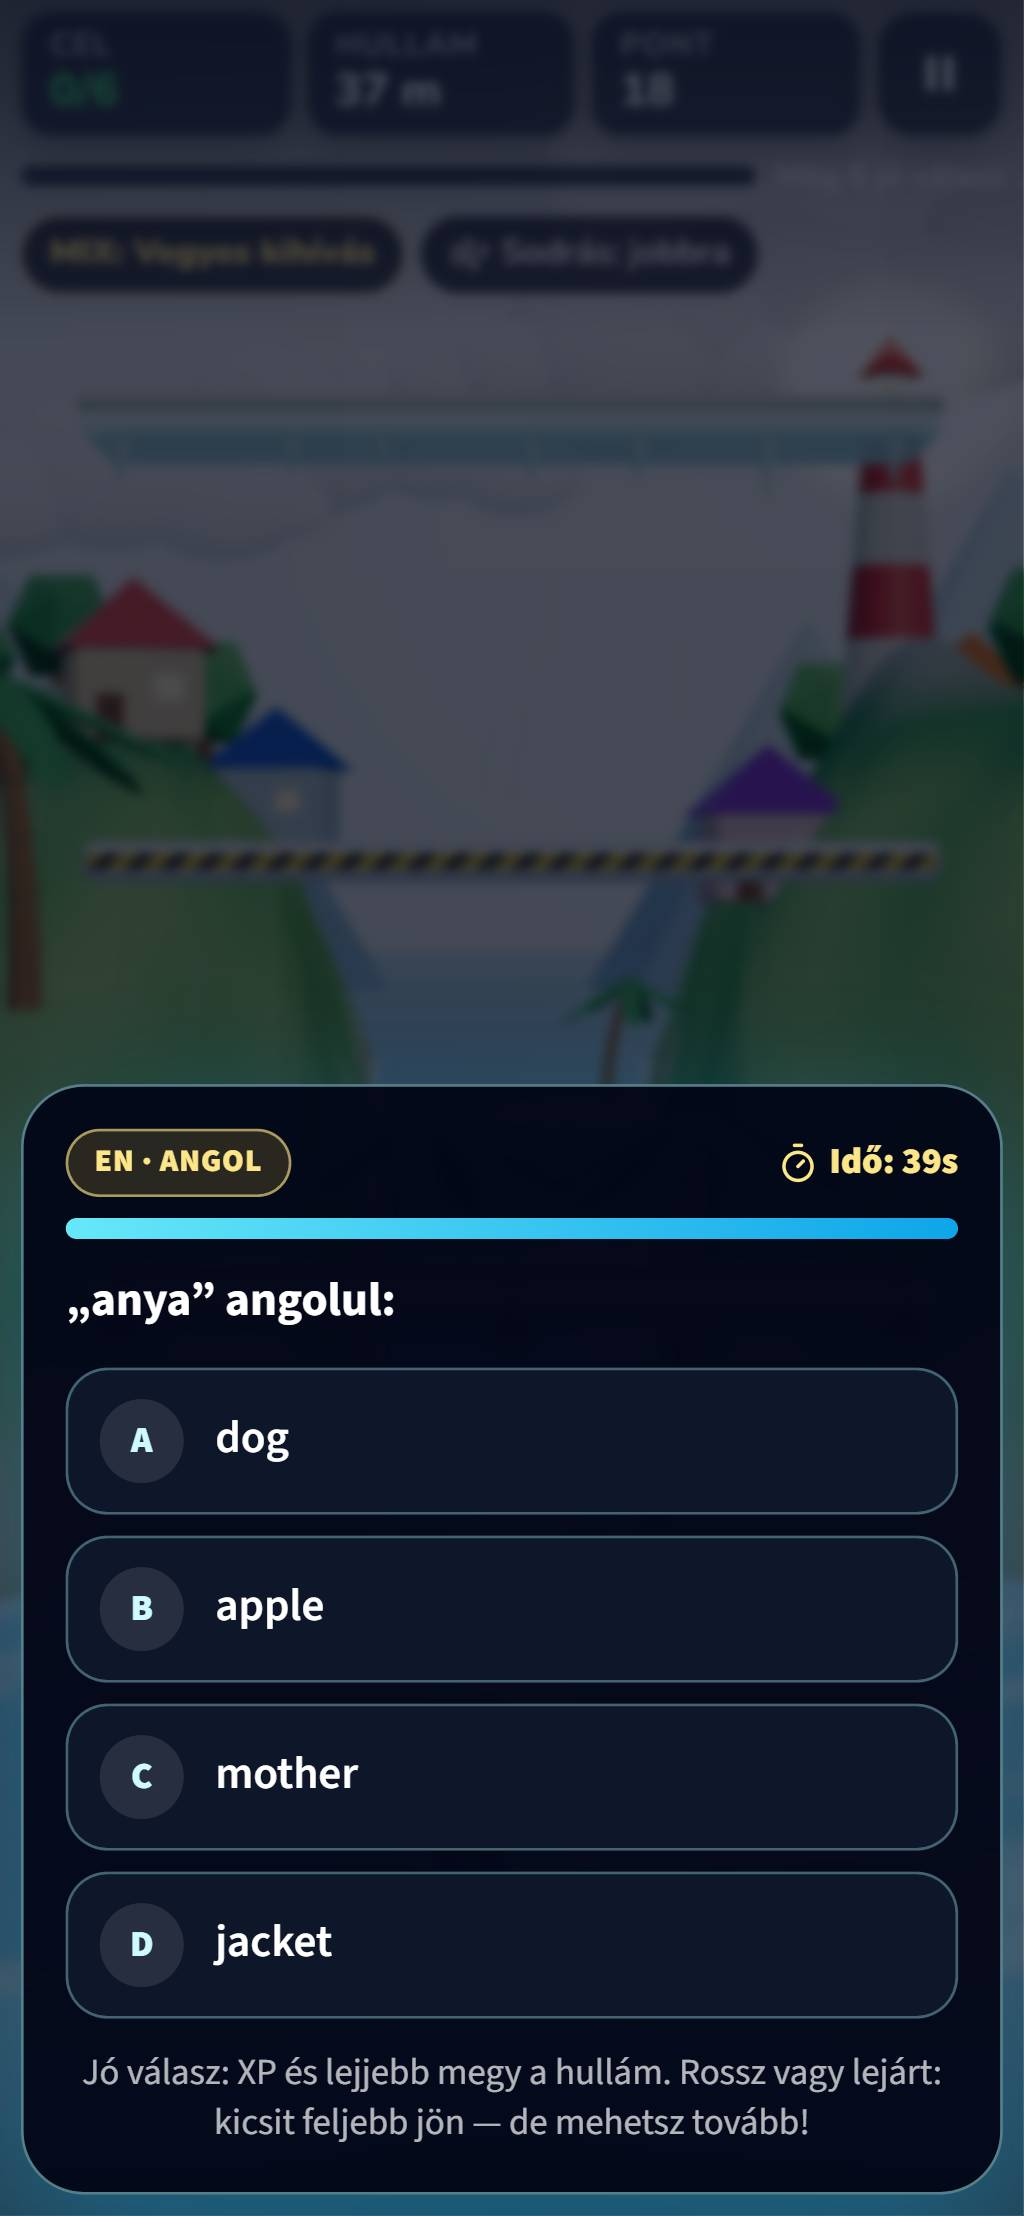
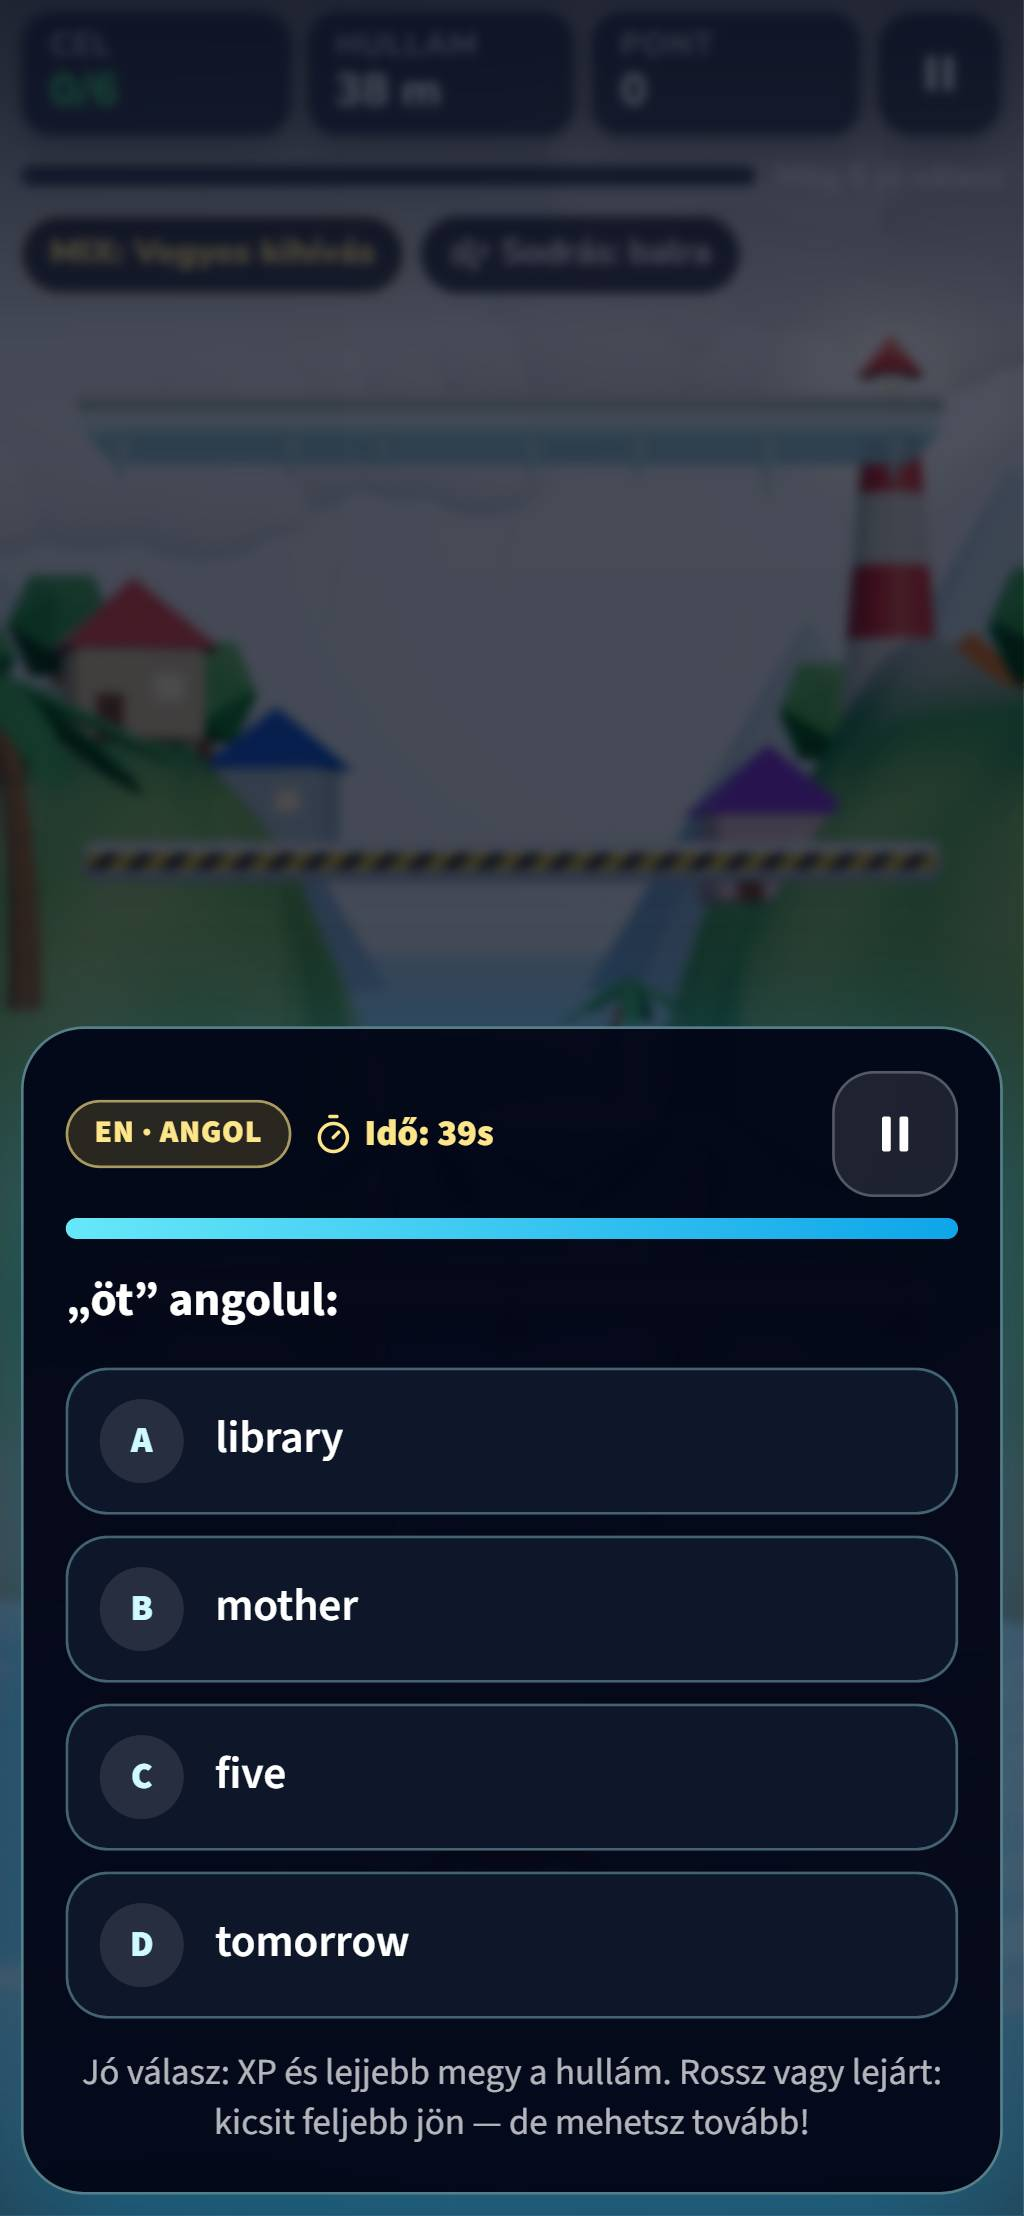
fix(jatekok): S9 – review #426: szünet a kvízrétegen, elavult fázisváltás ellen futás-azonosító
- A kvízréteg fejlécében 48 px-es szünetgomb (a teljes képernyős réteg eltakarta a HUD-ét); a kvíz
  automatikus fókusza az első válaszgombra kerül.
- A helyes válasz utáni késleltetett folytatás a continueTimerRef-ben; a startGame és az exitToMenu
  törli, és új futás-azonosítóra lép; a callback csak a saját futásában és kvíz-fázisban hat.
- Szinkron fázis- és szünettükör (goPhase / goPaused): egy már ütemezett, elavult képkocka a győzelem
  után nem nyithat kvízt (mérve a mobil-mérésben: „Cél 8/6” mellett kvíz nyílt az eredmény helyett).
- Forrásőr-tesztek a mintákra; frissített kvíz-képernyőképek a szünetgombbal.

diff --git a/source/client/src/pages/TsunamiEscapeEnglish.tsx b/source/client/src/pages/TsunamiEscapeEnglish.tsx
@@ -29,7 +29,7 @@ import { useCouponSession } from "@/game-engine/useCouponSession";
 import { maybeClaimCouponBonus } from "@/game-engine/claimCouponBonus";
 import { CouponHud, CouponExpiredOverlay } from "@/game-engine/CouponHud";
 import { correctDataAttrs, installGameTestApi } from "@/game-engine/game-test-hooks";
-import { ArrowLeft, Check, Flame, Shield, Timer, Waves, Wind, X } from "lucide-react";
+import { ArrowLeft, Check, Flame, Pause, Shield, Timer, Waves, Wind, X } from "lucide-react";
 import VirtualJoystick from "@/game-engine/VirtualJoystick";
 import HoldButton from "@/game-engine/HoldButton";
 import { joystickToDirections } from "@/game-engine/joystick";
@@ -611,6 +611,16 @@ export default function TsunamiEscapeEnglish() {
   }, []);
   const [subject, setSubject] = useState<TsunamiSubject>("mixed");
   const [phase, setPhase] = useState<Phase>("menu");
+  /**
+   * S9 / review #426: a fázis és a szünet SZINKRON tükre. A már ütemezett animációs képkocka és a késleltetett
+   * folytatás a régi zárlattal futhat le a következő renderelés előtt (mérve: a győzelem után egy elavult képkocka
+   * még kvízt nyitott); ezek a refet olvassák, ezért elavult hívás nem válthat fázist.
+   */
+  const phaseNowRef = useRef<Phase>("menu");
+  const goPhase = useCallback((p: Phase) => {
+    phaseNowRef.current = p;
+    setPhase(p);
+  }, []);
 
   /**
    * LS-3b: the play-time coupon earned in a lesson, if there is one.
@@ -648,6 +658,13 @@ export default function TsunamiEscapeEnglish() {
   const domScene = scene3d === false;
   /** S9 / terv 4.5: szünet (kézi vagy automatikus, ha a lap háttérbe kerül). */
   const [paused, setPaused] = useState(false);
+  const pausedNowRef = useRef(false);
+  const goPaused = useCallback((p: boolean) => {
+    pausedNowRef.current = p;
+    setPaused(p);
+  }, []);
+  /** Futás-azonosító: minden indítás / kilépés növeli — a késleltetett hívás csak a saját futásában hat. */
+  const runIdRef = useRef(0);
   /** Érintővezérlés csak érintős eszközön (S9 / terv 4.6/1, M5). */
   const touch = useTouchCapable();
   const haptics = useHaptics();
@@ -661,6 +678,9 @@ export default function TsunamiEscapeEnglish() {
   const [answerFx, setAnswerFx] = useState<{ index: number; ok: boolean } | null>(null);
   /** A futás összes megválaszolt kérdése (jó + rossz + lejárt) — az eredményképernyő arányához. */
   const answeredCountRef = useRef(0);
+  /** A helyes válasz utáni késleltetett folytatás időzítője (kilépéskor / újrakezdéskor törlendő). */
+  const continueTimerRef = useRef(0);
+  useEffect(() => () => clearTimeout(continueTimerRef.current), []);
   /** G-1: magyarázó kártya rossz válaszra. */
   const [explainCard, setExplainCard] = useState<FeedbackCard | null>(null);
 
@@ -881,6 +901,9 @@ export default function TsunamiEscapeEnglish() {
   }, []);
 
   const startGame = useCallback(() => {
+    clearTimeout(continueTimerRef.current);
+    continueTimerRef.current = 0;
+    runIdRef.current += 1;
     runLevelRef.current = levels.level;
     levelClearedRef.current = false;
     adaptiveRef.current.reset(userGrade ?? 4, runLevelRef.current);
@@ -910,7 +933,7 @@ export default function TsunamiEscapeEnglish() {
     answeredCountRef.current = 0;
     runSeenRef.current = [];
     gradeSeenRef.current = createGradeQuizSeen();
-    setPaused(false);
+    goPaused(false);
     setAnswerFx(null);
     setExplainCard(null);
     setBestResult(null);
@@ -923,7 +946,7 @@ export default function TsunamiEscapeEnglish() {
     stormTimerRef.current = 0;
     lastRef.current = null;
     setQuiz(null);
-    setPhase("play");
+    goPhase("play");
   }, [difficulty, subject, userGrade, levels.level]);
 
   /** S9 / terv 4.5: szünet — a játékciklus és a kvízóra áll, a vezérlés elenged. */
@@ -933,21 +956,24 @@ export default function TsunamiEscapeEnglish() {
     keysRef.current.right = false;
     keysRef.current.sprint = false;
     setJoyReset((n) => n + 1);
-    setPaused(true);
+    goPaused(true);
   }, [phase]);
 
   const resumeGame = useCallback(() => {
     lastRef.current = null;
-    setPaused(false);
+    goPaused(false);
   }, []);
 
   const exitToMenu = useCallback(() => {
-    setPaused(false);
+    clearTimeout(continueTimerRef.current);
+    continueTimerRef.current = 0;
+    runIdRef.current += 1;
+    goPaused(false);
     setQuiz(null);
     setExplainCard(null);
     setAnswerFx(null);
     answerLockedRef.current = false;
-    setPhase("menu");
+    goPhase("menu");
   }, []);
 
   useEffect(() => {
@@ -974,11 +1000,11 @@ export default function TsunamiEscapeEnglish() {
           const secs = tsunamiQuizSeconds(runDifficultyRef.current, adaptiveRef.current.band);
           setQuizTimeLeft(secs);
           setQuizTimeTotal(secs);
-          setPhase("quiz");
+          goPhase("quiz");
           return;
         }
         if (patch.phase === "won" || patch.phase === "over" || patch.phase === "menu" || patch.phase === "play") {
-          setPhase(patch.phase);
+          goPhase(patch.phase);
         }
       },
     });
@@ -1006,7 +1032,7 @@ export default function TsunamiEscapeEnglish() {
   }, [phase, startGame]);
 
   const endGame = useCallback(() => {
-    setPhase("over");
+    goPhase("over");
     cancelAnimationFrame(rafRef.current);
     lastRef.current = null;
   }, []);
@@ -1075,6 +1101,8 @@ export default function TsunamiEscapeEnglish() {
   const gameLoop = useCallback(
     (t: number) => {
       if (phase !== "play" || paused) return;
+      // Review #426: egy már ütemezett, elavult képkocka (régi zárlat) se futtassa tovább a kört.
+      if (phaseNowRef.current !== "play" || pausedNowRef.current) return;
 
       const last = lastRef.current;
       lastRef.current = t;
@@ -1141,7 +1169,7 @@ export default function TsunamiEscapeEnglish() {
         const secs = tsunamiQuizSeconds(runDifficultyRef.current, adaptiveRef.current.band);
         setQuizTimeLeft(secs);
         setQuizTimeTotal(secs);
-        setPhase("quiz");
+        goPhase("quiz");
         return;
       }
 
@@ -1180,7 +1208,7 @@ export default function TsunamiEscapeEnglish() {
     setExplainCard(null);
     setAnswerFx(null);
     setQuiz(null);
-    setPhase("play");
+    goPhase("play");
     lastRef.current = null;
     answerLockedRef.current = false;
   }, []);
@@ -1260,20 +1288,25 @@ export default function TsunamiEscapeEnglish() {
       cancelAnimationFrame(rafRef.current);
       lastRef.current = null;
       answerLockedRef.current = false;
-      setPhase("won");
+      goPhase("won");
       return;
     }
 
     // S9: a zöld pipa egy pillanatig látszik a választott gombon (azonnali, látható jutalom), utána fut tovább.
-    timeoutsRef.current.push(
-      window.setTimeout(() => {
-        setQuiz(null);
-        setAnswerFx(null);
-        setPhase("play");
-        lastRef.current = null;
-        answerLockedRef.current = false;
-      }, reducedMotion ? 150 : 420),
-    );
+    // Review #426: az időzítő a `continueTimerRef`-ben él, így a menübe lépés / újrakezdés törli — különben az
+    // elhagyott kör a menü helyett újraindulna.
+    clearTimeout(continueTimerRef.current);
+    const runId = runIdRef.current;
+    continueTimerRef.current = window.setTimeout(() => {
+      continueTimerRef.current = 0;
+      // Csak a saját futásában és még kvíz-fázisban hat (kilépés, újrakezdés, eredmény után nem).
+      if (runIdRef.current !== runId || phaseNowRef.current !== "quiz") return;
+      setQuiz(null);
+      setAnswerFx(null);
+      goPhase("play");
+      lastRef.current = null;
+      answerLockedRef.current = false;
+    }, reducedMotion ? 150 : 420);
   };
 
   const answerRef = useRef(onAnswer);
@@ -1336,7 +1369,7 @@ export default function TsunamiEscapeEnglish() {
   useEffect(() => {
     if (phase !== "quiz") return;
     const t = window.setTimeout(() => {
-      const first = quizDialogRef.current?.querySelector<HTMLElement>("button, [href], input, select, textarea, [tabindex]");
+      const first = quizDialogRef.current?.querySelector<HTMLElement>("[data-testid^=\"ts-option-\"]");
       first?.focus();
     }, 50);
     const onKey = (e: KeyboardEvent) => {
@@ -1815,6 +1848,16 @@ export default function TsunamiEscapeEnglish() {
                   <Timer className="h-4 w-4" aria-hidden="true" />
                   Idő: {quizTimeLeft}s
                 </span>
+                {/* Review #426: a teljes képernyős kvízréteg eltakarja a HUD szünetgombját — itt is lehet megállni. */}
+                <button
+                  type="button"
+                  data-testid="ts-quiz-pause"
+                  aria-label="Szünet"
+                  onClick={pauseGame}
+                  className="ml-auto inline-flex h-12 w-12 shrink-0 items-center justify-center rounded-2xl border border-white/25 bg-white/10 text-white hover:bg-white/20"
+                >
+                  <Pause className="h-5 w-5" fill="currentColor" strokeWidth={0} aria-hidden="true" />
+                </button>
               </div>
               <div className="mt-2 h-2 rounded-full bg-white/10 overflow-hidden" aria-hidden="true">
                 <div

diff --git a/source/tests/tsunami-mobile.test.ts b/source/tests/tsunami-mobile.test.ts
@@ -105,6 +105,30 @@ test("keret: GameShell, szünet, eredményképernyő a meglévő testid-kkel", (
   assert.match(page, /startLabel=\{`Indítás: /, "a felirat az e2e-regexekhez „Indítás:”-sal kezdődik");
 });
 
+test("review #426: a kvízrétegen is van szünetgomb (a HUD-ét eltakarja)", () => {
+  assert.match(page, /data-testid="ts-quiz-pause"[\s\S]{0,80}onClick=\{pauseGame\}/);
+  assert.match(page, /const pauseGame = useCallback\(\(\) => \{\s*if \(phase !== "play" && phase !== "quiz"\) return;/, "kvíz közben is szüneteltethető");
+});
+
+test("review #426: a helyes válasz utáni késleltetett folytatás kilépéskor és újrakezdéskor törlődik", () => {
+  assert.match(page, /continueTimerRef\.current = window\.setTimeout\(/, "a folytatás időzítője nincs eltárolva");
+  for (const fn of [/const exitToMenu = useCallback\(\(\) =>/, /const startGame = useCallback\(\(\) =>/]) {
+    const body = functionBody(page, fn);
+    assert.match(body, /clearTimeout\(continueTimerRef\.current\)/, `${fn}: nem törli a függő folytatást`);
+    assert.match(body, /runIdRef\.current \+= 1;/, `${fn}: nem lép új futás-azonosítóra`);
+  }
+  // A callback a saját futásához és a kvíz-fázishoz kötött.
+  assert.match(page, /if \(runIdRef\.current !== runId \|\| phaseNowRef\.current !== "quiz"\) return;/);
+});
+
+test("review #426: elavult képkocka / hívás nem válthat fázist (szinkron fázis-tükör)", () => {
+  // Minden fázis- és szünetváltás a szinkron tükröt is írja: a nyers setter csak a goPhase / goPaused törzsében áll.
+  assert.equal((page.match(/\bsetPhase\(/g) ?? []).length, 1, "nyers setPhase( a goPhase-en kívül");
+  assert.equal((page.match(/\bsetPaused\(/g) ?? []).length, 1, "nyers setPaused( a goPaused-on kívül");
+  const loop = functionBody(page, /const gameLoop = useCallback\(\s*\(t: number\) =>/);
+  assert.match(loop, /if \(phaseNowRef\.current !== "play" \|\| pausedNowRef\.current\) return;/, "a képkocka a régi zárlattal futhatna tovább");
+});
+
 test("játék közben nincs 12 px alatti fix betűméret a lapon", () => {
   assert.doesNotMatch(page, /text-\[(?:9|10|11)px\]/);
 });
